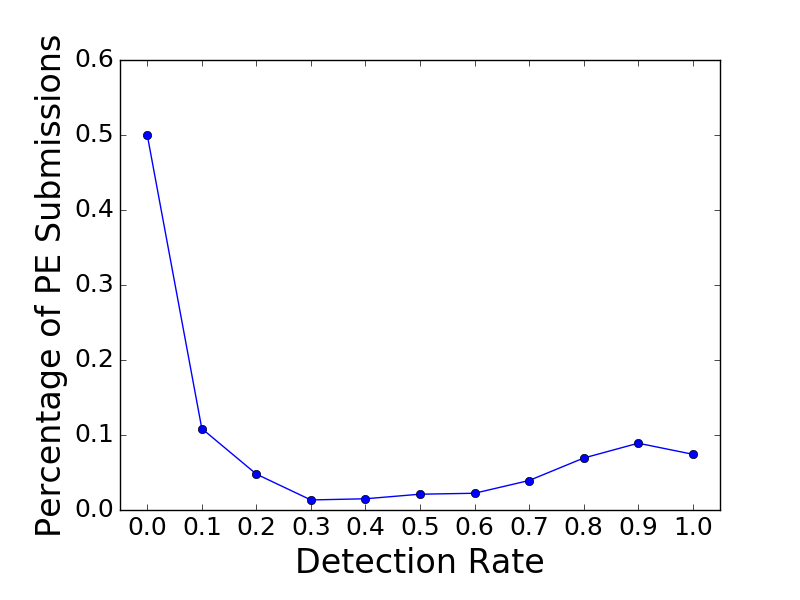
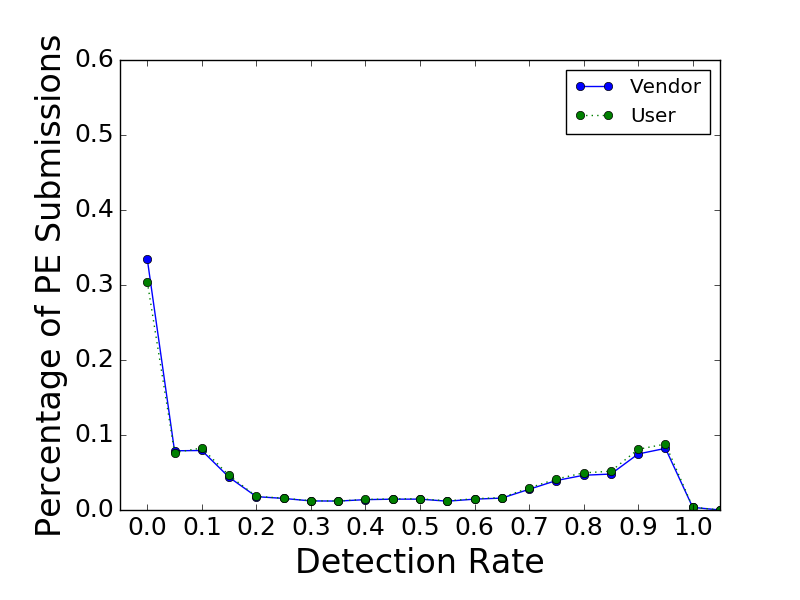
update figure 7

diff --git a/eurosys2017/figure/DetectionRate.py b/eurosys2017/figure/DetectionRate.py
@@ -4,15 +4,11 @@ import numpy as np
 import matplotlib.pyplot as plt
 from matplotlib.ticker import MultipleLocator, FormatStrFormatter
 
-if __name__ == '__main__':
-	sDataFile = '../data/detection.stat'
+def loadDetectionRate(sDataFile):
 	fData = open(sDataFile, 'r')
 
 	XList = []
 	YList = []
-	errList = []
-
-	
 
 	while True:
 		line = fData.readline()
@@ -20,24 +16,37 @@ if __name__ == '__main__':
 			break
 
 		tmpList = line.split()
-
 		
 		XList.append(float(tmpList[0]))
 		YList.append(int(tmpList[1]))
 
-		#total += int(tmpList[1])
-
-
 	fData.close()
 
-	total = sum(YList)
-	YList = [num * 1.0/total for num in YList]
+	return XList, YList
 
-	print YList[5:]
-	print sum(YList[5:])
+if __name__ == '__main__':
+	sAllDataFile = '../data/detection.stat'
+	sVendorDataFile = '../data/vendorDetectionRate.stat'
+	sUserDataFile = '../data/hotUserDetectionRate.stat'
+
+	XALL, YALL = loadDetectionRate(sAllDataFile)
+	XVendor, YVendor = loadDetectionRate(sVendorDataFile)
+	XUser, YUser = loadDetectionRate(sUserDataFile)
+
+
+	YALL = [num * 1.0/sum(YALL) for num in YALL]
+	YVendor = [num * 1.0/sum(YVendor) for num in YVendor]
+	YUser = [num * 1.0/sum(YUser) for num in YUser]
+	#total = sum(YList)
+	#YList = [num * 1.0/total for num in YList]
+
+	#print YList[5:]
+	#print sum(YList[5:])
 
 	fig, ax = plt.subplots()
-	ax.plot(XList, YList, 'b-o') #, mew=2, markersize = 8, linewidth=2.0)
+	#ax.plot(XALL, YALL, 'b-o', label = 'All') #, mew=2, markersize = 8, linewidth=2.0)
+	ax.plot(XVendor, YVendor, 'b-o', label = 'Vendor')
+	ax.plot(XUser, YUser, 'g:o', label = 'User')
 
 
 	majorLocator = MultipleLocator(0.1)
@@ -55,14 +64,17 @@ if __name__ == '__main__':
 	plt.gcf().subplots_adjust(bottom=0.15)
 	plt.gcf().subplots_adjust(left=0.15)
 
-	xmin = XList[0]  - 0.05
-	xmax = XList[-1] + 0.05
+	xmin = XALL[0]  - 0.05
+	xmax = XALL[-1] + 0.05
 
 	ax.set_xlim(xmin, xmax)
 
 	ymin = 0.0
 	ymax = 0.6
 	ax.set_ylim(ymin, ymax)
+
+	legend = ax.legend(loc='upper right', fontsize='large')
+	#plt.ylabel('VirusTotal reports (in million)', fontsize=18)
 
 	#fig.canvas.draw()
 
@@ -75,6 +87,6 @@ if __name__ == '__main__':
 	#plt.show()
 	fig.savefig('DetectionRate.pdf')
 	fig.savefig('DetectionRate.png')
-	#plt.close(fig)
-	#fig.savefig('IDReputation.png')
 	plt.close(fig)
+	#fig.savefig('IDReputation.png')
+	#plt.close(fig)
